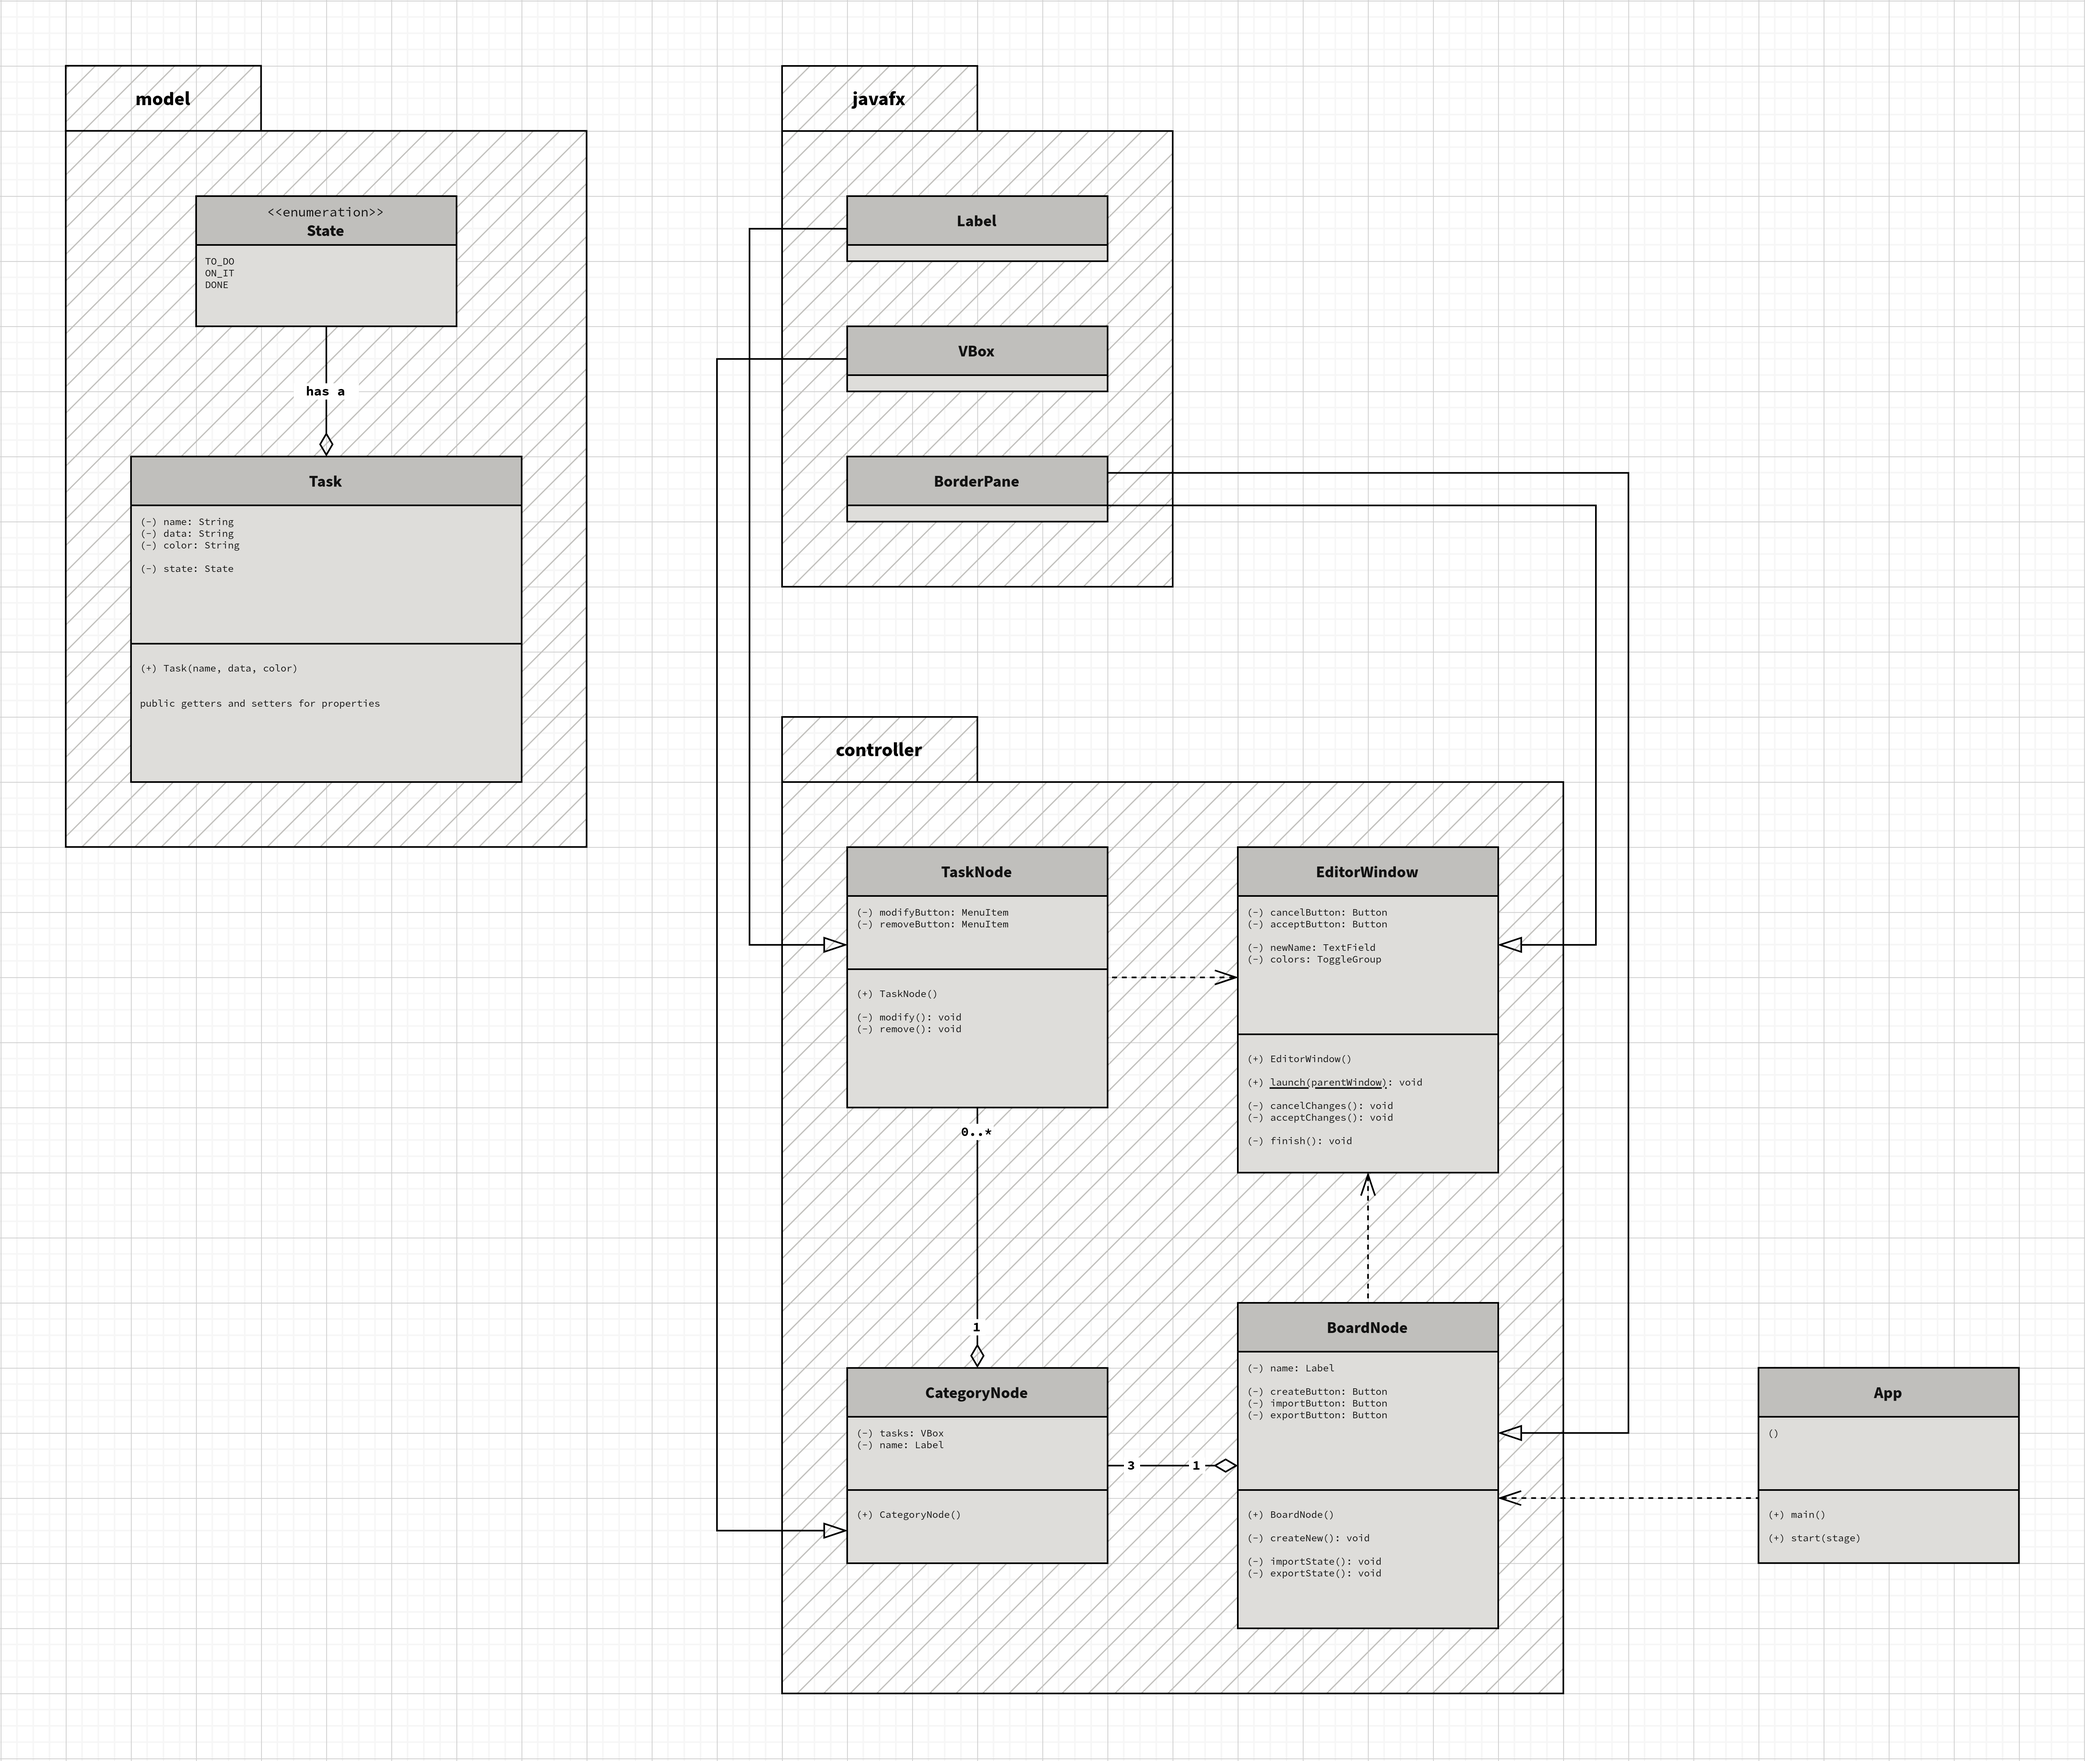
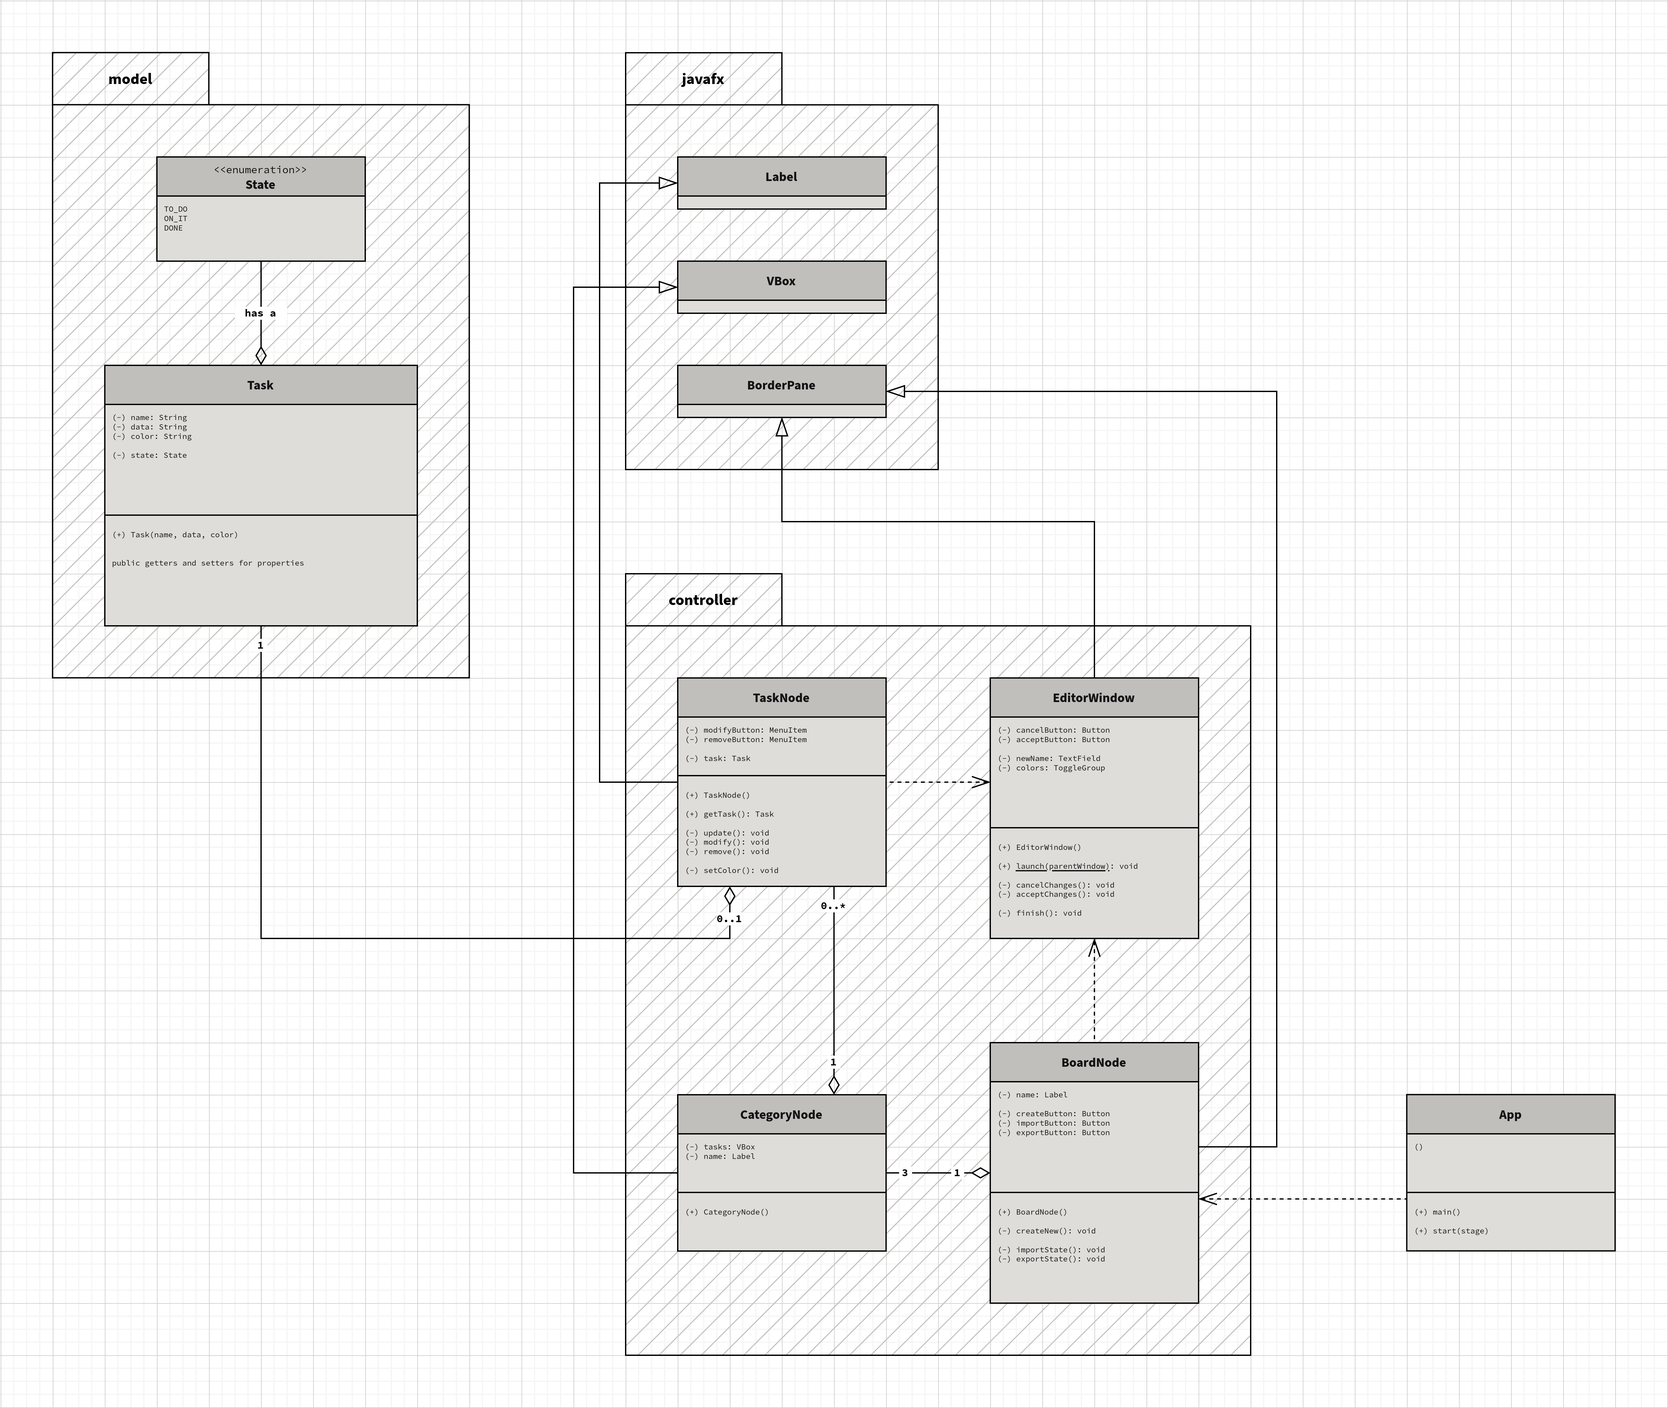
[FEATURE](/code/kanban/controller): Integrate model into `TaskNode` class
[FIX](/docs): Fix UML diagram inheritance arrow directions

[FEATURE](/docs): Update diagram with new functionality

diff --git a/code/kanban/view/task.css b/code/kanban/view/task.css
@@ -3,7 +3,7 @@
 	-fx-font-size: 14;
 	
 	-fx-background-radius: 6;
-	-fx-background-color: #FEBF91; /* #89BAFF #81DDB6 #FEBF91 #BCB1F4 #EE9ECF #F8DC7E */
+	-fx-background-color: #000000;
 	
 	-fx-min-height: 45;
 	-fx-max-height: 45;
@@ -13,9 +13,4 @@
 	
 	-fx-alignment: center;
 	-fx-text-alignment: center;
-}
-
-#task:hover
-{
-	-fx-background-color: derive(#FEBF91, 20%);
 }

diff --git a/code/kanban/controller/TaskNode.java b/code/kanban/controller/TaskNode.java
@@ -1,5 +1,7 @@
 package kanban.controller;
 
+import javafx.beans.property.SimpleObjectProperty;
+
 import javafx.event.ActionEvent;
 
 import javafx.fxml.FXML;
@@ -13,12 +15,18 @@ import javafx.scene.input.Dragboard;
 import javafx.scene.input.MouseEvent;
 import javafx.scene.input.TransferMode;
 
+import javafx.scene.paint.Color;
+
 import kanban.controller.EditorWindow;
+
+import kanban.model.Task;
 
 public class TaskNode extends Label
 {
 	private @FXML MenuItem modifyButton;
 	private @FXML MenuItem removeButton;
+	
+	private SimpleObjectProperty<Task> task;
 	
 	public TaskNode()
 	{
@@ -31,7 +39,8 @@ public class TaskNode extends Label
 		{
 			loader.load();
 			
-			this.setText("task");
+			this.task = new SimpleObjectProperty(new Task("", "", "#FEBF91"));
+			this.task.addListener((elem, prev, curr) -> { this.update(); });
 			
 			this.modifyButton.setOnAction((ActionEvent event) -> { this.modify(); event.consume(); });
 			this.removeButton.setOnAction((ActionEvent event) -> { this.remove(); event.consume(); });
@@ -45,12 +54,28 @@ public class TaskNode extends Label
 				
 				event.consume();
 			});
+			
+			this.setOnMouseExited((MouseEvent event) -> { this.setColor(Color.web(this.getTask().getColor())); event.consume(); });
+			this.setOnMouseEntered((MouseEvent event) -> { this.setColor(Color.web(this.getTask().getColor()).deriveColor(1, 0.8, 1, 1)); event.consume(); });
+			
+			this.update();
 		}
 		
 		catch(Exception exception)
 		{
 			exception.printStackTrace();
 		}
+	}
+	
+	public Task getTask()
+	{
+		return this.task.getValue();
+	}
+	
+	private void update()
+	{
+		this.setText(this.getTask().getName());
+		this.setColor(Color.web(this.getTask().getColor()));
 	}
 	
 	private void modify()
@@ -61,5 +86,16 @@ public class TaskNode extends Label
 	private void remove()
 	{
 		System.out.println("remove");
+	}
+	
+	private void setColor(Color color)
+	{
+		int r = (int) (255 * color.getRed());
+		int g = (int) (255 * color.getGreen());
+		int b = (int) (255 * color.getBlue());
+		
+		String cssSetter = String.format("-fx-background-color: rgb(%d, %d, %d);", r, g, b);
+		
+		this.setStyle(cssSetter);
 	}
 }
